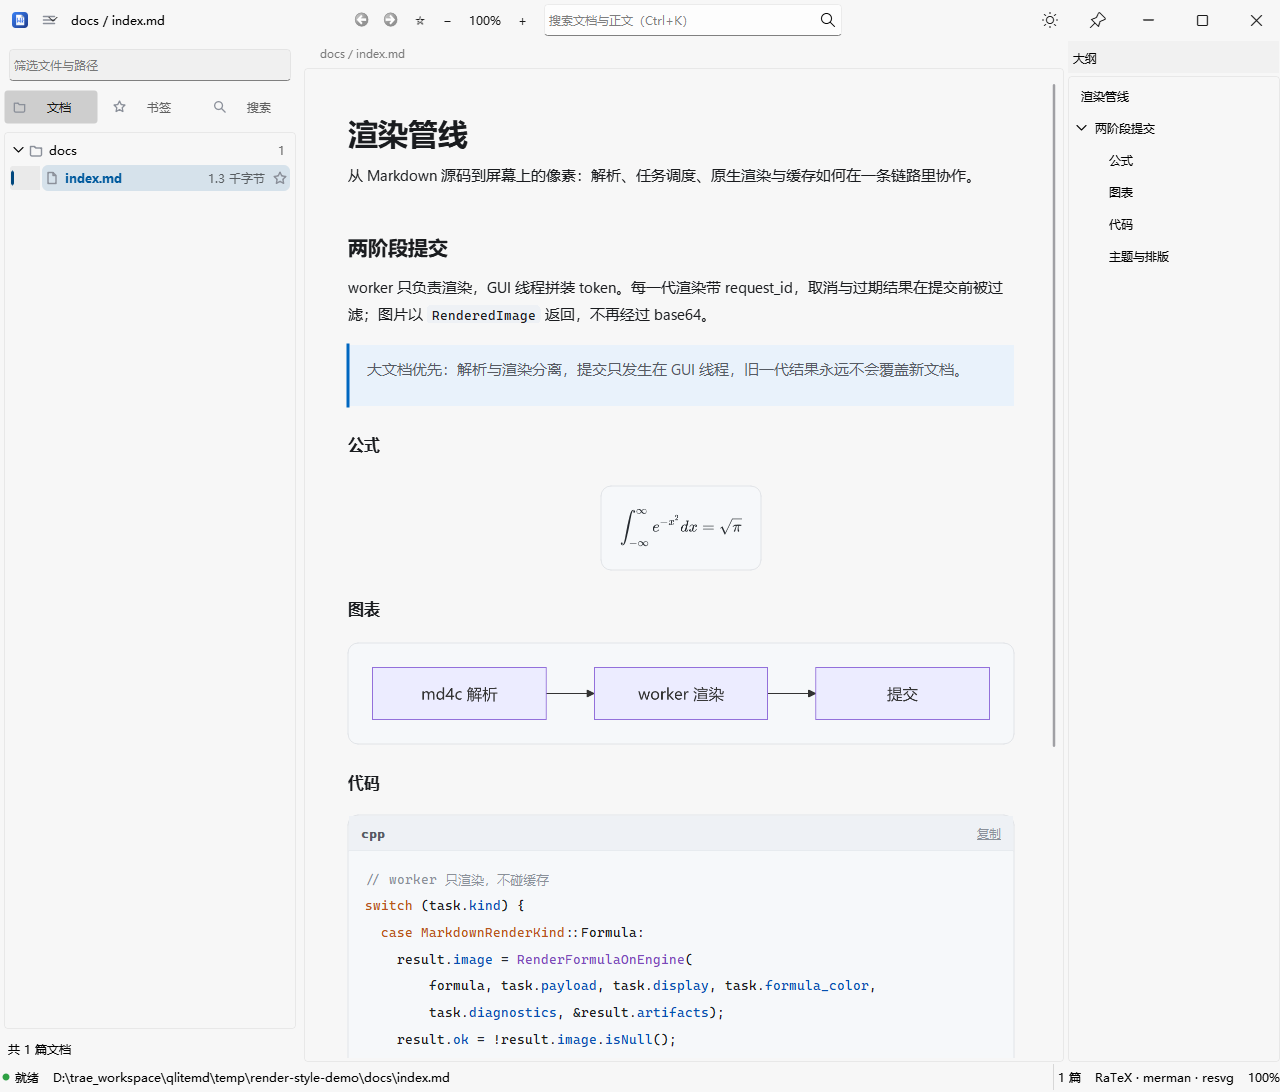
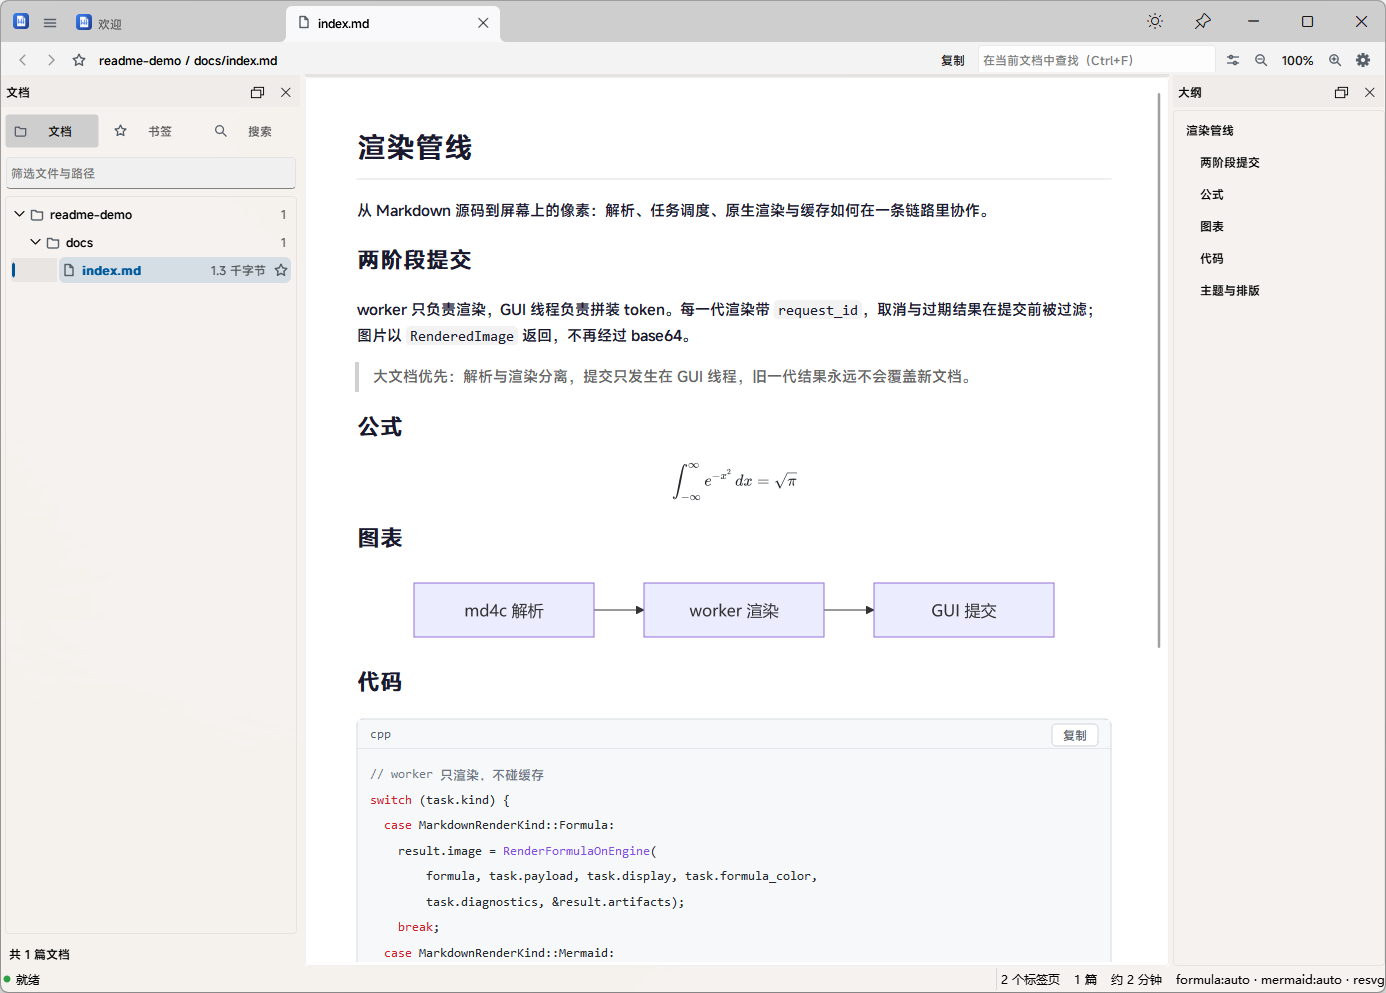
fix(app): 修复启动欢迎栏并更新应用截图
冷启动停在欢迎标签时 ActivateTab(0) 会提前返回，工具条页栈没有切换，
顶部显示成文档栏；ShowWelcome 末尾统一刷新一次外壳。欢迎标签补上
彩色应用图标，README 里 10 月的旧截图一并换成当前构建的界面。

diff --git a/apps/qt_md_viewer/md_viewer_window.cpp b/apps/qt_md_viewer/md_viewer_window.cpp
@@ -884,9 +884,10 @@ void MdViewerWindow::UpdateTabTitle(DocumentTab* tab) {
   tab_bar_->setTabToolTip(index,
                           welcome ? QStringLiteral("欢迎页")
                                   : DocumentDisplayTitle(root_dir_, tab->path));
-  if (!welcome) {
-    tab_bar_->setTabIcon(index, ThemeIcon(QStringLiteral("file"), ThemeDark()));
-  }
+  // 欢迎标签用彩色应用图标，文档标签用当前主题的单色文件图标
+  tab_bar_->setTabIcon(
+      index, welcome ? QIcon(QStringLiteral(":/resources/svg/icon.svg"))
+                     : ThemeIcon(QStringLiteral("file"), ThemeDark()));
 }
 
 void MdViewerWindow::UpdateShellForActiveTab() {
@@ -1326,7 +1327,8 @@ void MdViewerWindow::initUi() {
     title_layout->setStretchFactor(title_leading_widget_, 1);
   }
   // 欢迎标签固定第 0 位、不可关闭
-  tab_bar_->addTab(QStringLiteral("欢迎"));
+  tab_bar_->addTab(QIcon(QStringLiteral(":/resources/svg/icon.svg")),
+                   QStringLiteral("欢迎"));
   tab_bar_->setTabToolTip(0, QStringLiteral("欢迎页"));
   tab_bar_->RemoveCloseButton(0);
   // 标签 38 + 顶部 4；标题栏高度跟着标签走，否则会被裁掉
@@ -2499,6 +2501,9 @@ void MdViewerWindow::ShowWelcome() {
   if (outline_dock_ != nullptr && welcome_outline_was_visible_) {
     outline_dock_->hide();
   }
+  // 启动时就停在欢迎标签时 ActivateTab(0) 会提前返回，工具条不会自己
+  // 切页；这里统一补一次，保证欢迎栏与文档栏始终跟当前标签一致
+  UpdateShellForActiveTab();
 }
 
 void MdViewerWindow::CaptureWelcomeState() {

diff --git a/CHANGELOG.md b/CHANGELOG.md
@@ -31,6 +31,11 @@ All notable changes to qlitemd are documented here.
 - Removed the "+" button after the last tab. It always opened the file
   dialog, and the welcome page, Ctrl+T and 文件 → 新建标签页 already cover
   that; dropping it also frees title-bar width in narrow windows.
+- The welcome tab now shows the colored application icon, matching the
+  title bar and the welcome page instead of a blank tab.
+- Fixed the toolbar showing the document bar on the very first welcome
+  screen: `ShowWelcome()` now refreshes the shell even when tab 0 is
+  already active, so the welcome bar appears from startup.
 
 ## 0.6.0 - 2026-11-24
 
